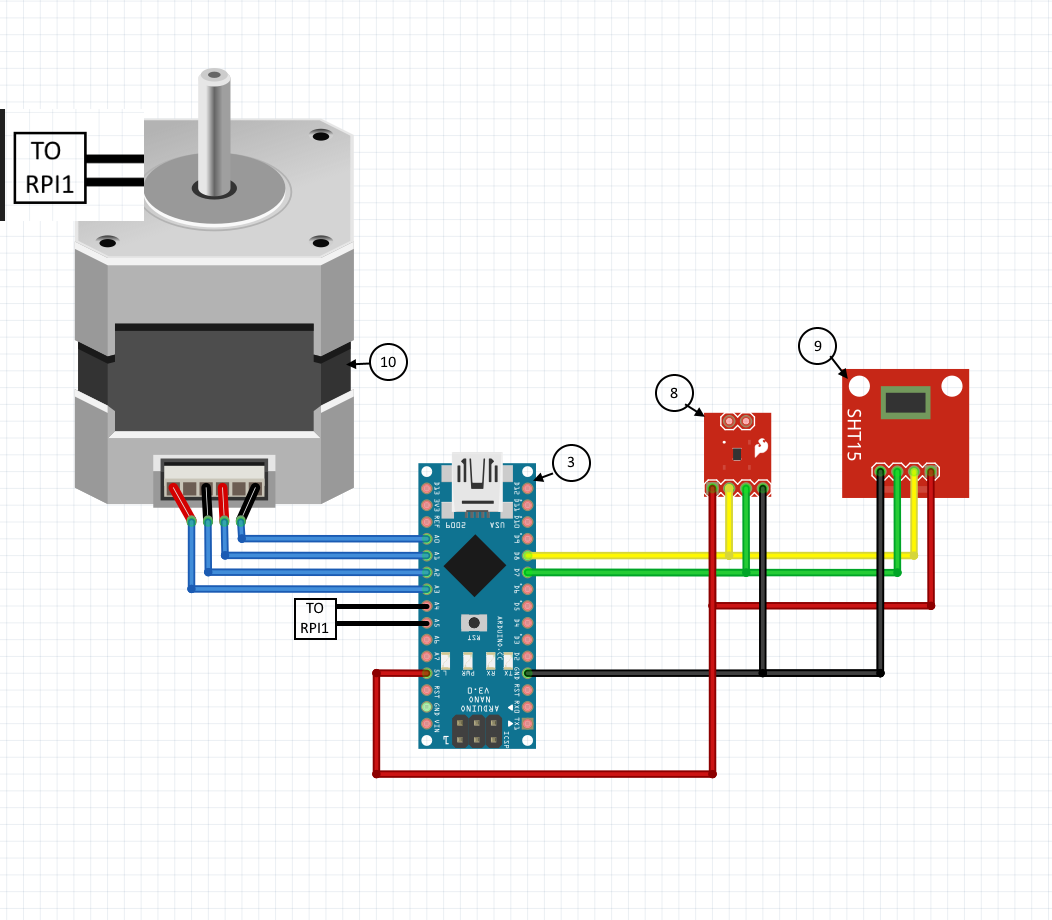
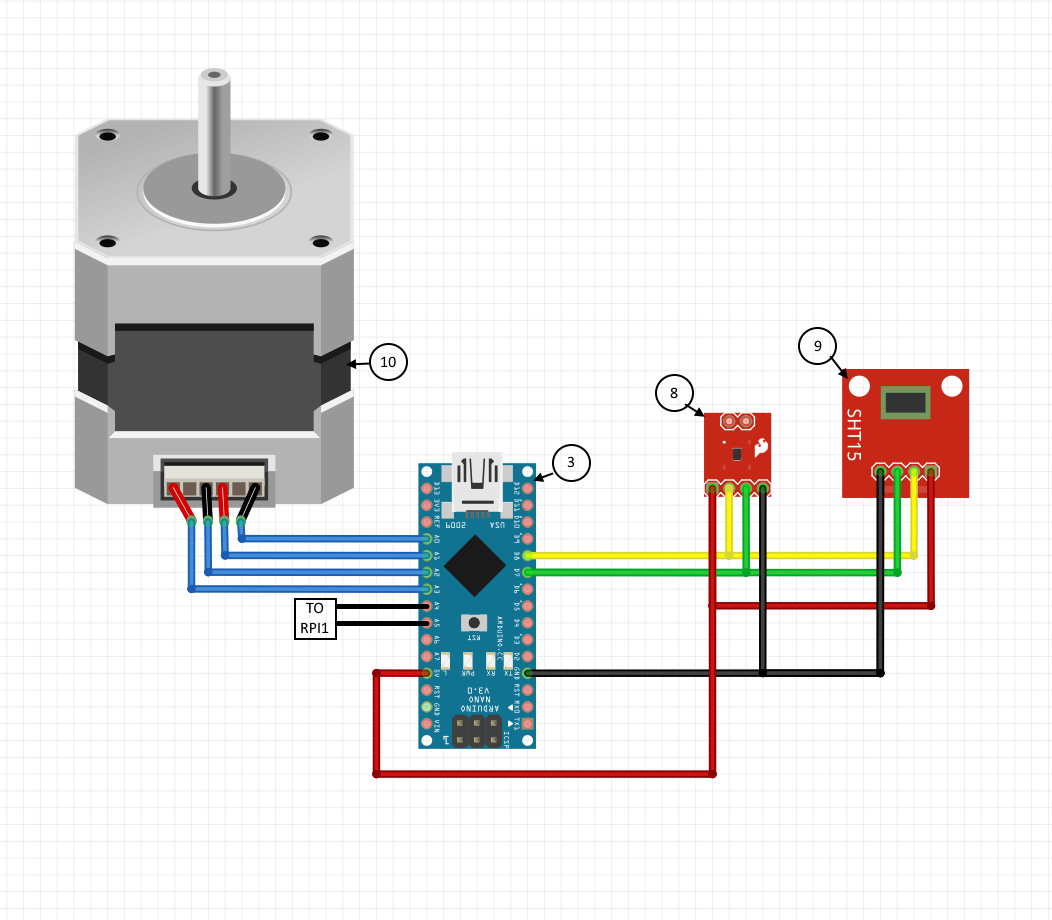
Fixed Diagrams and added pis to readme

Changed region(s): [[0.0, 0.1217, 0.1521, 0.2435]]

diff --git a/README.md b/README.md
@@ -59,6 +59,12 @@ This subsystem is the hive top temperature measurement, outside temperature meas
 The [wiring diagram is available here ](https://github.com/bienemeia/L1_G2_Project/blob/main/Wiring%20Diagrams/Arduino%201%20System_schem.png) and the 
 [setup diagram is available here](https://github.com/bienemeia/L1_G2_Project/blob/main/Wiring%20Diagrams/Arduino%201%20System.png)
 
+### BackBone Communication and Hive Top RPI 
+This subsystem is the main communication system for the hive top pi and the Arduino subsystem. 
+The [wiring diagram is available here ](https://github.com/bienemeia/L1_G2_Project/blob/main/Wiring%20Diagrams/Seasonal%20Innercove%20and%20BaseBoard%20Communication%20system_schem.png) and the [setup diagram is available here](https://github.com/bienemeia/L1_G2_Project/blob/main/Wiring%20Diagrams/Seasonal%20Innercove%20and%20BaseBoard%20Communication%20system..png)
+
+### Web Server Pi
+This Subsystem is responsible for hosting the website. The [setup diagram is available here](https://github.com/bienemeia/L1_G2_Project/blob/main/Wiring%20Diagrams/Raspberry%20Pi%201.png)
 
 	
 
